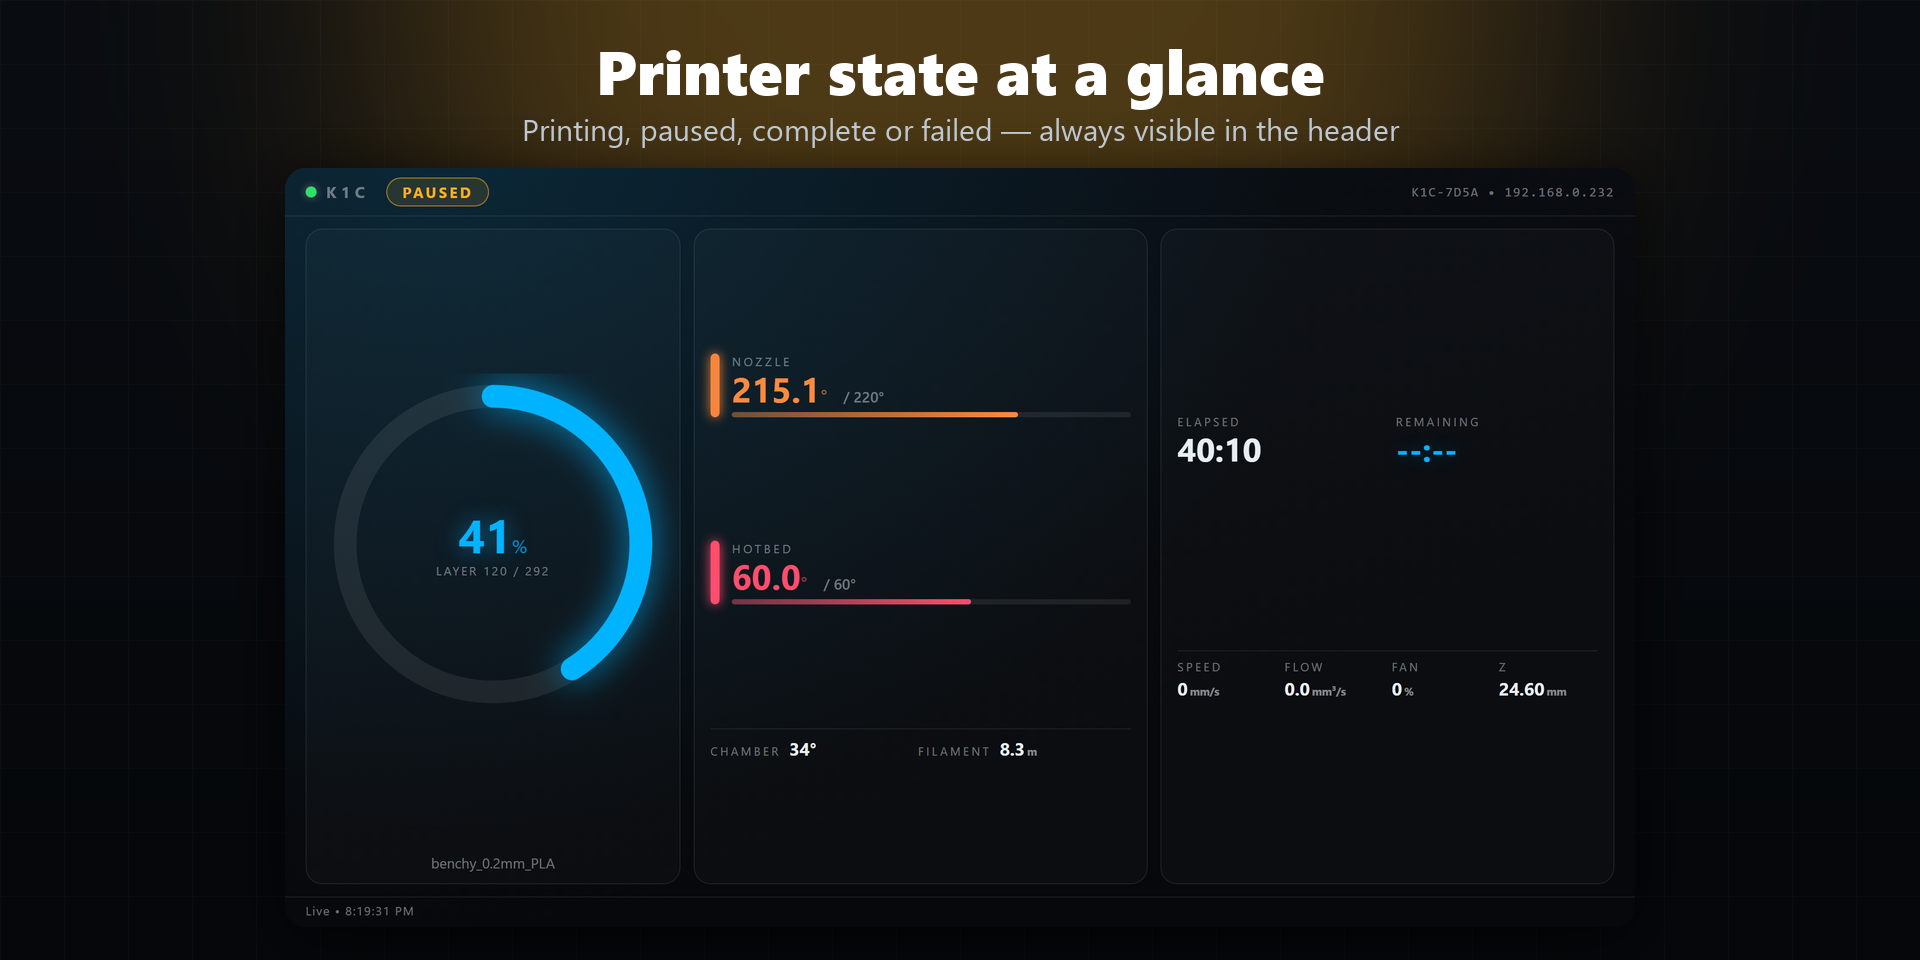
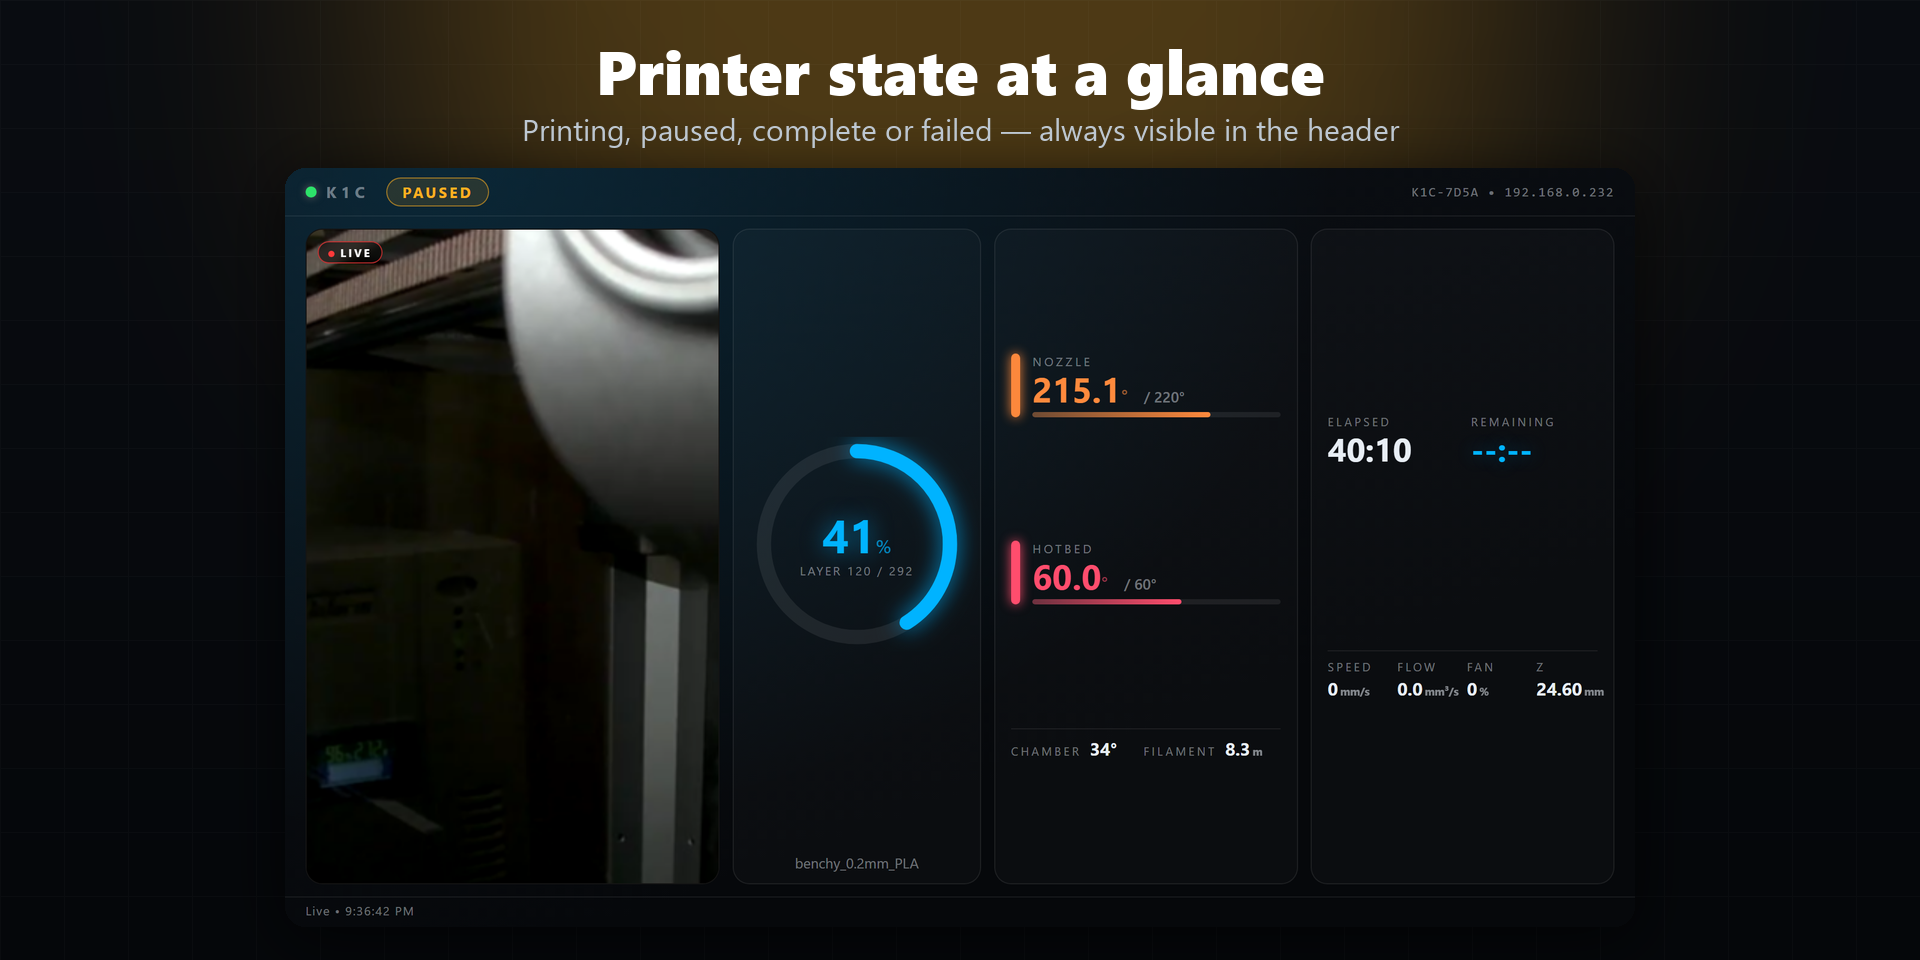
Media: show the camera card in all thumbnail/gallery images

diff --git a/tools/compose_media.py b/tools/compose_media.py
@@ -89,9 +89,9 @@ def build(out_name, shot_name, accent, title, subtitle):
 
 
 build("thumbnail.png", "shot_printing.png", ACCENT_BLUE,
-      "Creality Monitor", "Real-time K-Series printer monitoring for Corsair iCUE")
+      "Creality Monitor", "Real-time K-Series printer monitoring with live camera for Corsair iCUE")
 build("gallery-1-printing.png", "shot_printing.png", ACCENT_BLUE,
-      "Live print progress", "Progress ring with layer count, elapsed and remaining time")
+      "Live print progress and camera", "Progress ring, layer count, elapsed and remaining time, plus the printer camera")
 build("gallery-2-heating.png", "shot_heating.png", ACCENT_BLUE,
       "Nozzle and bed temperatures", "Current and target values with progress bars, plus chamber and filament")
 build("gallery-3-paused.png", "shot_paused.png", ACCENT_AMBER,
@@ -100,7 +100,3 @@ build("gallery-4-complete.png", "shot_complete.png", ACCENT_GREEN,
       "Print complete", "Know the moment your print is finished")
 build("gallery-5-failed.png", "shot_failed.png", ACCENT_RED,
       "Failed prints are flagged", "A red FAILED pill shows the moment something goes wrong")
-
-if (SHOTS / "shot_camera.png").exists():
-    build("gallery-6-camera.png", "shot_camera.png", ACCENT_BLUE,
-          "Live camera", "Optional WebRTC camera feed from the printer")

diff --git a/tools/render_shots.py b/tools/render_shots.py
@@ -76,9 +76,8 @@ def main() -> None:
     OUT.mkdir(exist_ok=True)
     index_html = (TEMPLATE / "index.html").read_text(encoding="utf-8")
     frame = next(iter(sorted(Path(__file__).resolve().parent.glob("camera-frame.*"))), None)
-    jobs = [(name, state, None) for name, state in STATES.items()]
-    if frame:
-        jobs.append(("camera", STATES["printing"], frame.name))
+    # the camera card is on by default in the real widget, so every state is rendered with it
+    jobs = [(name, state, frame.name if frame else None) for name, state in STATES.items()]
     with tempfile.TemporaryDirectory() as tmp:
         work = Path(tmp) / "widget"
         shutil.copytree(TEMPLATE, work)
